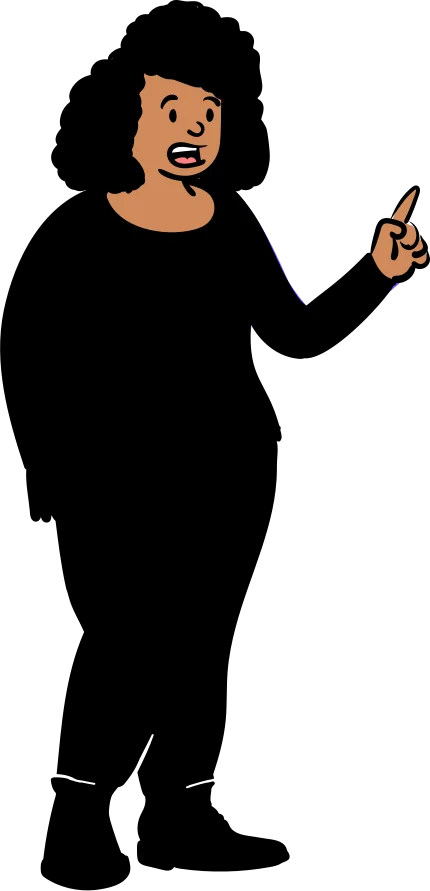
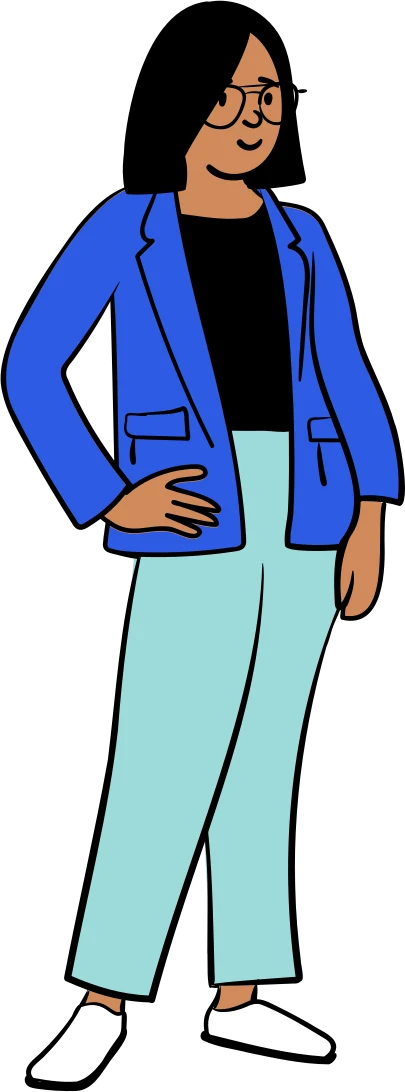
Landingpage: gezeichnete Haken statt Emojis, neue Figur
Claude-Session: https://claude.ai/code/session_016N4pzUdny2WLJBkycuce9G

diff --git a/landingpage/index.html b/landingpage/index.html
@@ -26,6 +26,9 @@
   .mark{background:linear-gradient(transparent 55%,var(--gelb) 55%)}
   .hand{font-family:Caveat,cursive;color:var(--orange);font-size:30px;transform:rotate(-2deg);display:inline-block}
   .vorteile{list-style:none;padding:0;margin:0 0 22px;display:grid;gap:8px;font-size:18px}
+  .vorteile li{position:relative;padding-left:40px}
+  .vorteile li::before{content:"";position:absolute;left:0;top:2px;width:24px;height:24px;border:2.5px solid var(--ink);border-radius:50% 45% 52% 48%;background:var(--gelb)}
+  .vorteile li::after{content:"";position:absolute;left:8px;top:6px;width:7px;height:12px;border:solid var(--ink);border-width:0 3px 3px 0;transform:rotate(40deg)}
   .lead{font-size:20px;color:var(--grau);margin:0 0 24px}
   .karte{background:#fff;border:3px solid var(--ink);border-radius:18px;box-shadow:6px 6px 0 var(--ink);padding:22px}
   form{display:flex;flex-direction:column;gap:12px}
@@ -37,7 +40,7 @@
   .klein a{color:inherit}
   label.check{display:flex;gap:10px;align-items:flex-start;font-size:14px;line-height:1.4}
   label.check input{margin-top:3px;width:18px;height:18px;flex:none}
-  .figur{width:100%;max-width:340px;justify-self:center}
+  .figur{width:100%;max-width:300px;justify-self:center}
   .figur img{width:100%;height:auto;display:block}
   section{padding:40px 0}
   h2{font-size:clamp(26px,4vw,38px);font-weight:900;margin:0 0 20px}
@@ -69,9 +72,9 @@
       <span class="hand">Für alle vor der Mündlichen</span>
       <h1>Bestehe die <span class="mark">mündliche StB-Prüfung</span> mit System</h1>
       <ul class="vorteile">
-        <li>📄 <b>Sofort:</b> PDF „Die 10 größten Fehler in der Mündlichen“</li>
-        <li>🎤 <b>Danach:</b> Kurzvortrag-Themen, Prüferfragen &amp; Checklisten per Mail</li>
-        <li>✅ Kostenlos, jederzeit abbestellbar</li>
+        <li><b>Sofort:</b> PDF „Die 10 größten Fehler in der Mündlichen“</li>
+        <li><b>Danach:</b> Kurzvortrag-Themen, Prüferfragen &amp; Checklisten per Mail</li>
+        <li>Kostenlos, jederzeit abbestellbar</li>
       </ul>
       <div class="karte" id="anmelden">
         <form class="lead-form" method="POST" target="_self">
@@ -87,7 +90,7 @@
         <div class="ok"><span class="hand">Geschafft!</span><p>Das PDF ist unterwegs. Schau in dein Postfach (notfalls im Spam-Ordner).</p></div>
       </div>
     </div>
-    <div class="figur"><img src="held.webp" alt="" width="560" height="900"></div>
+    <div class="figur"><img src="held.webp" alt="" width="410" height="1100"></div>
   </div>
 </main>
 
